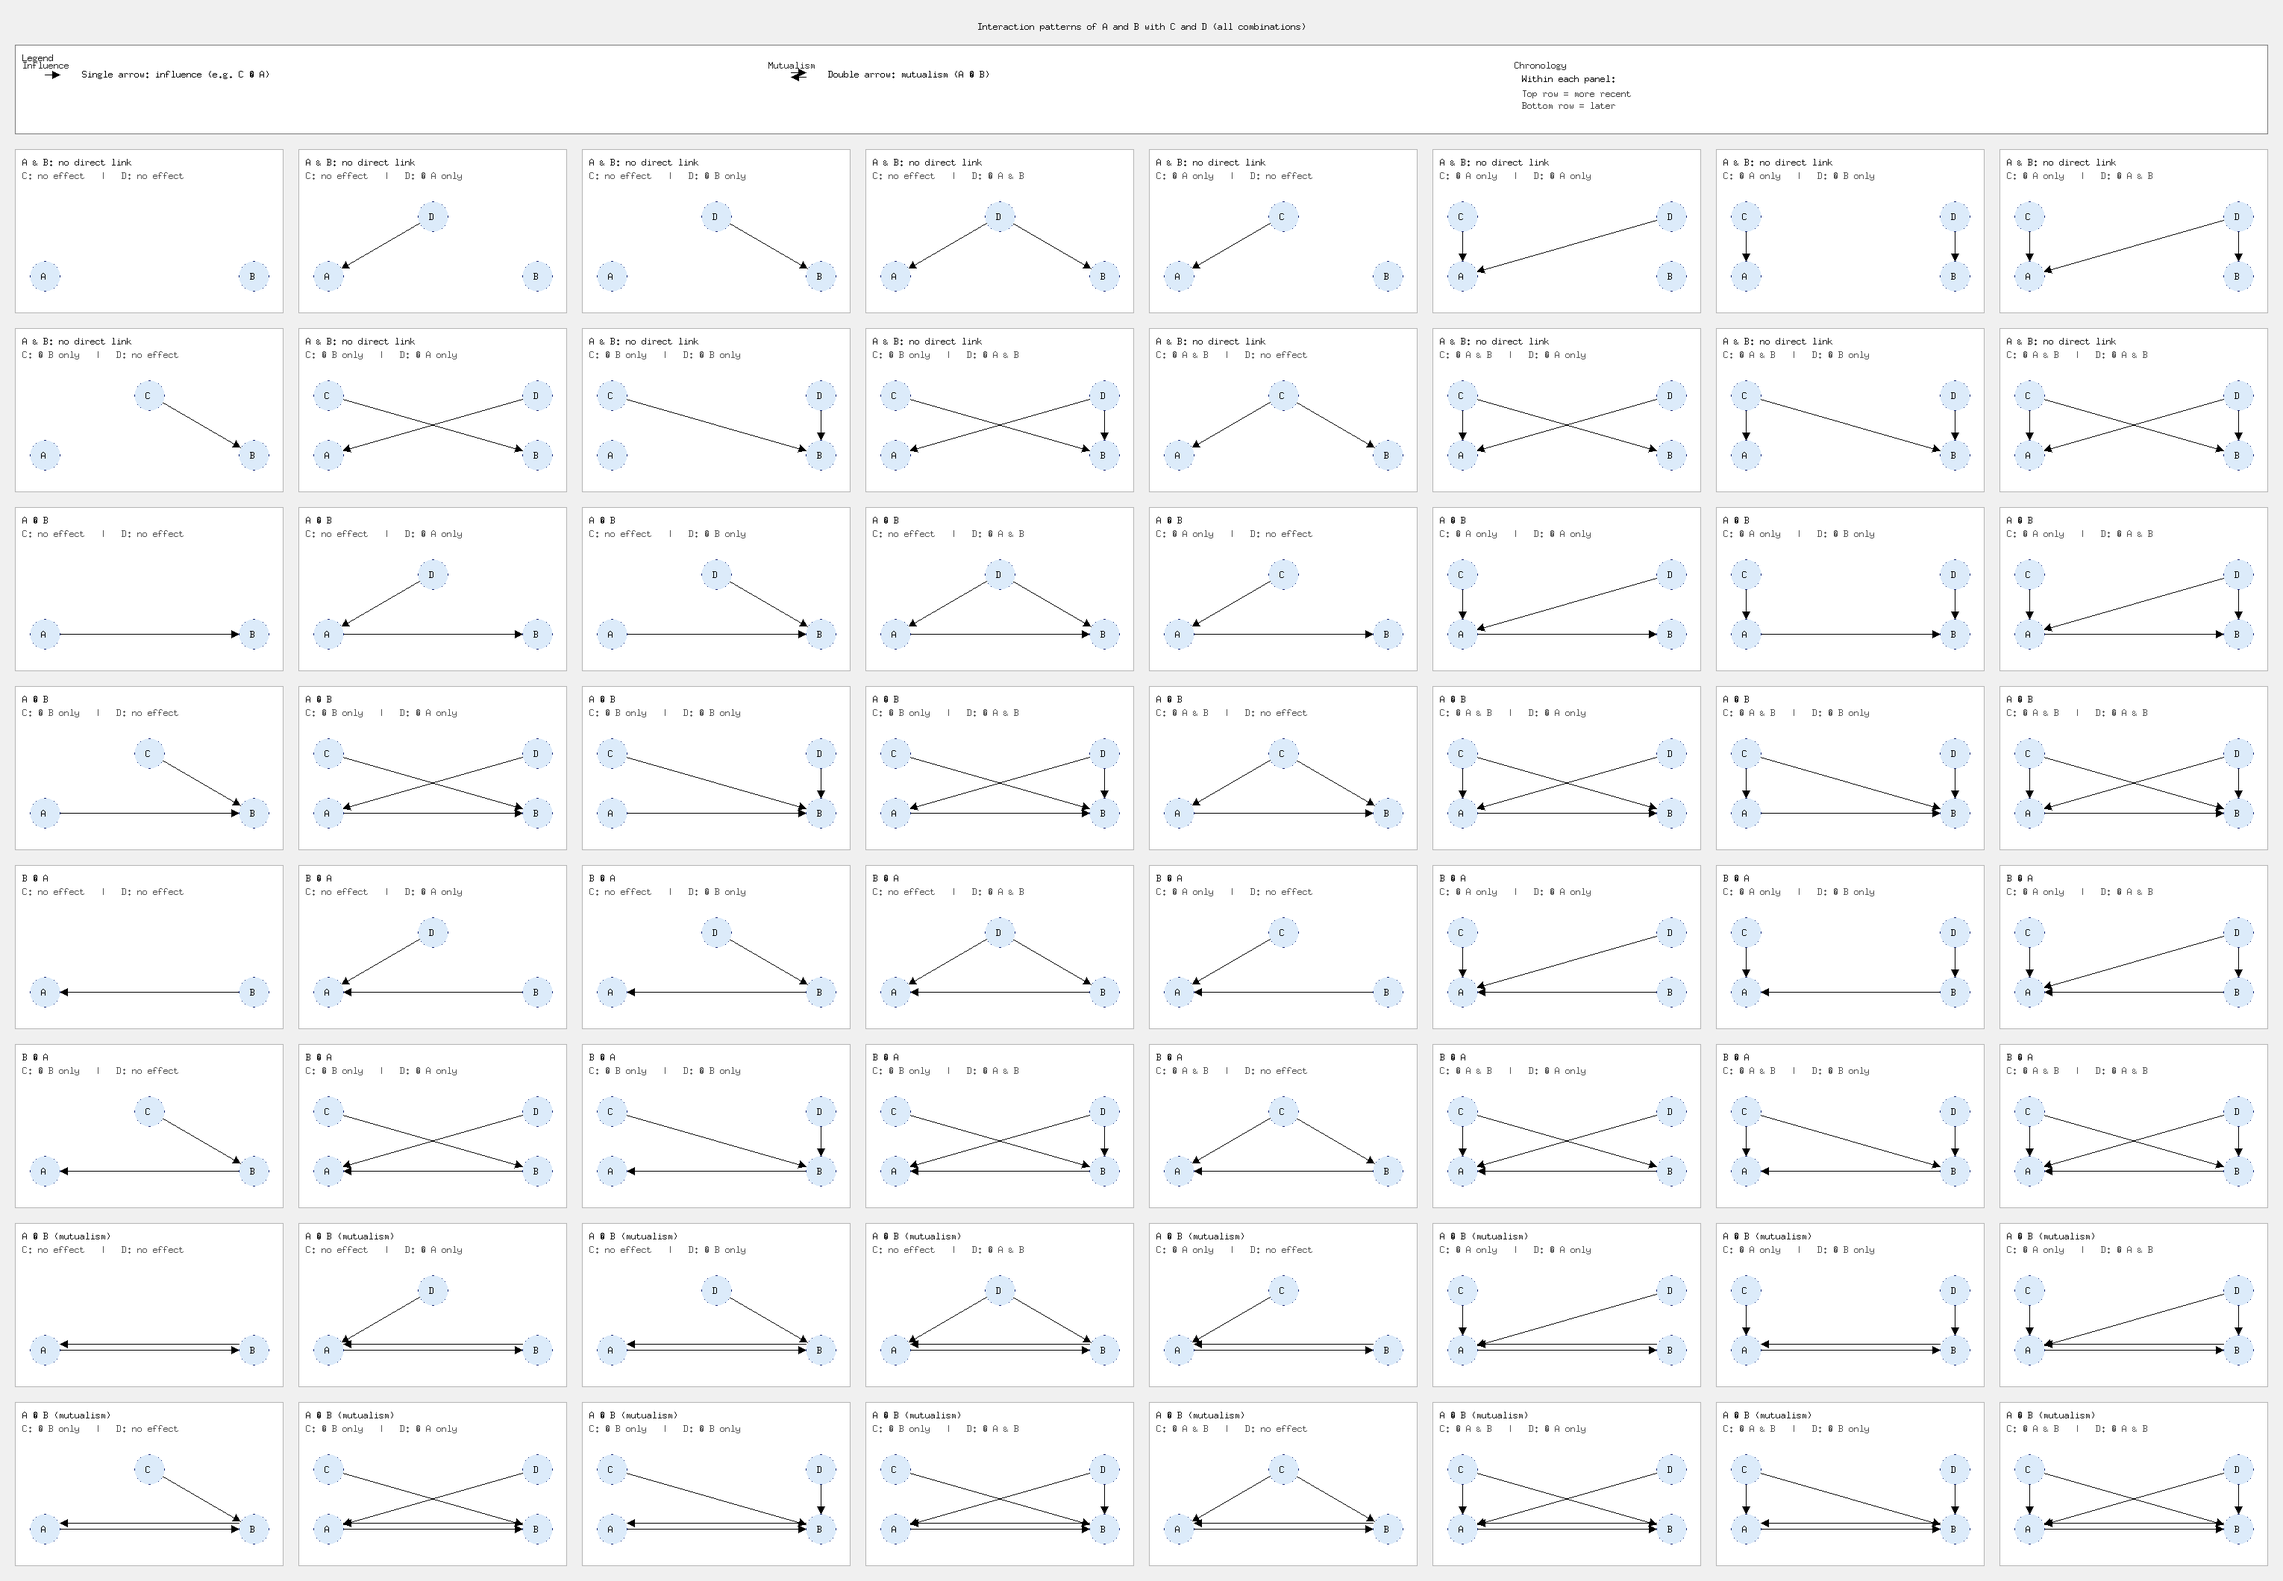
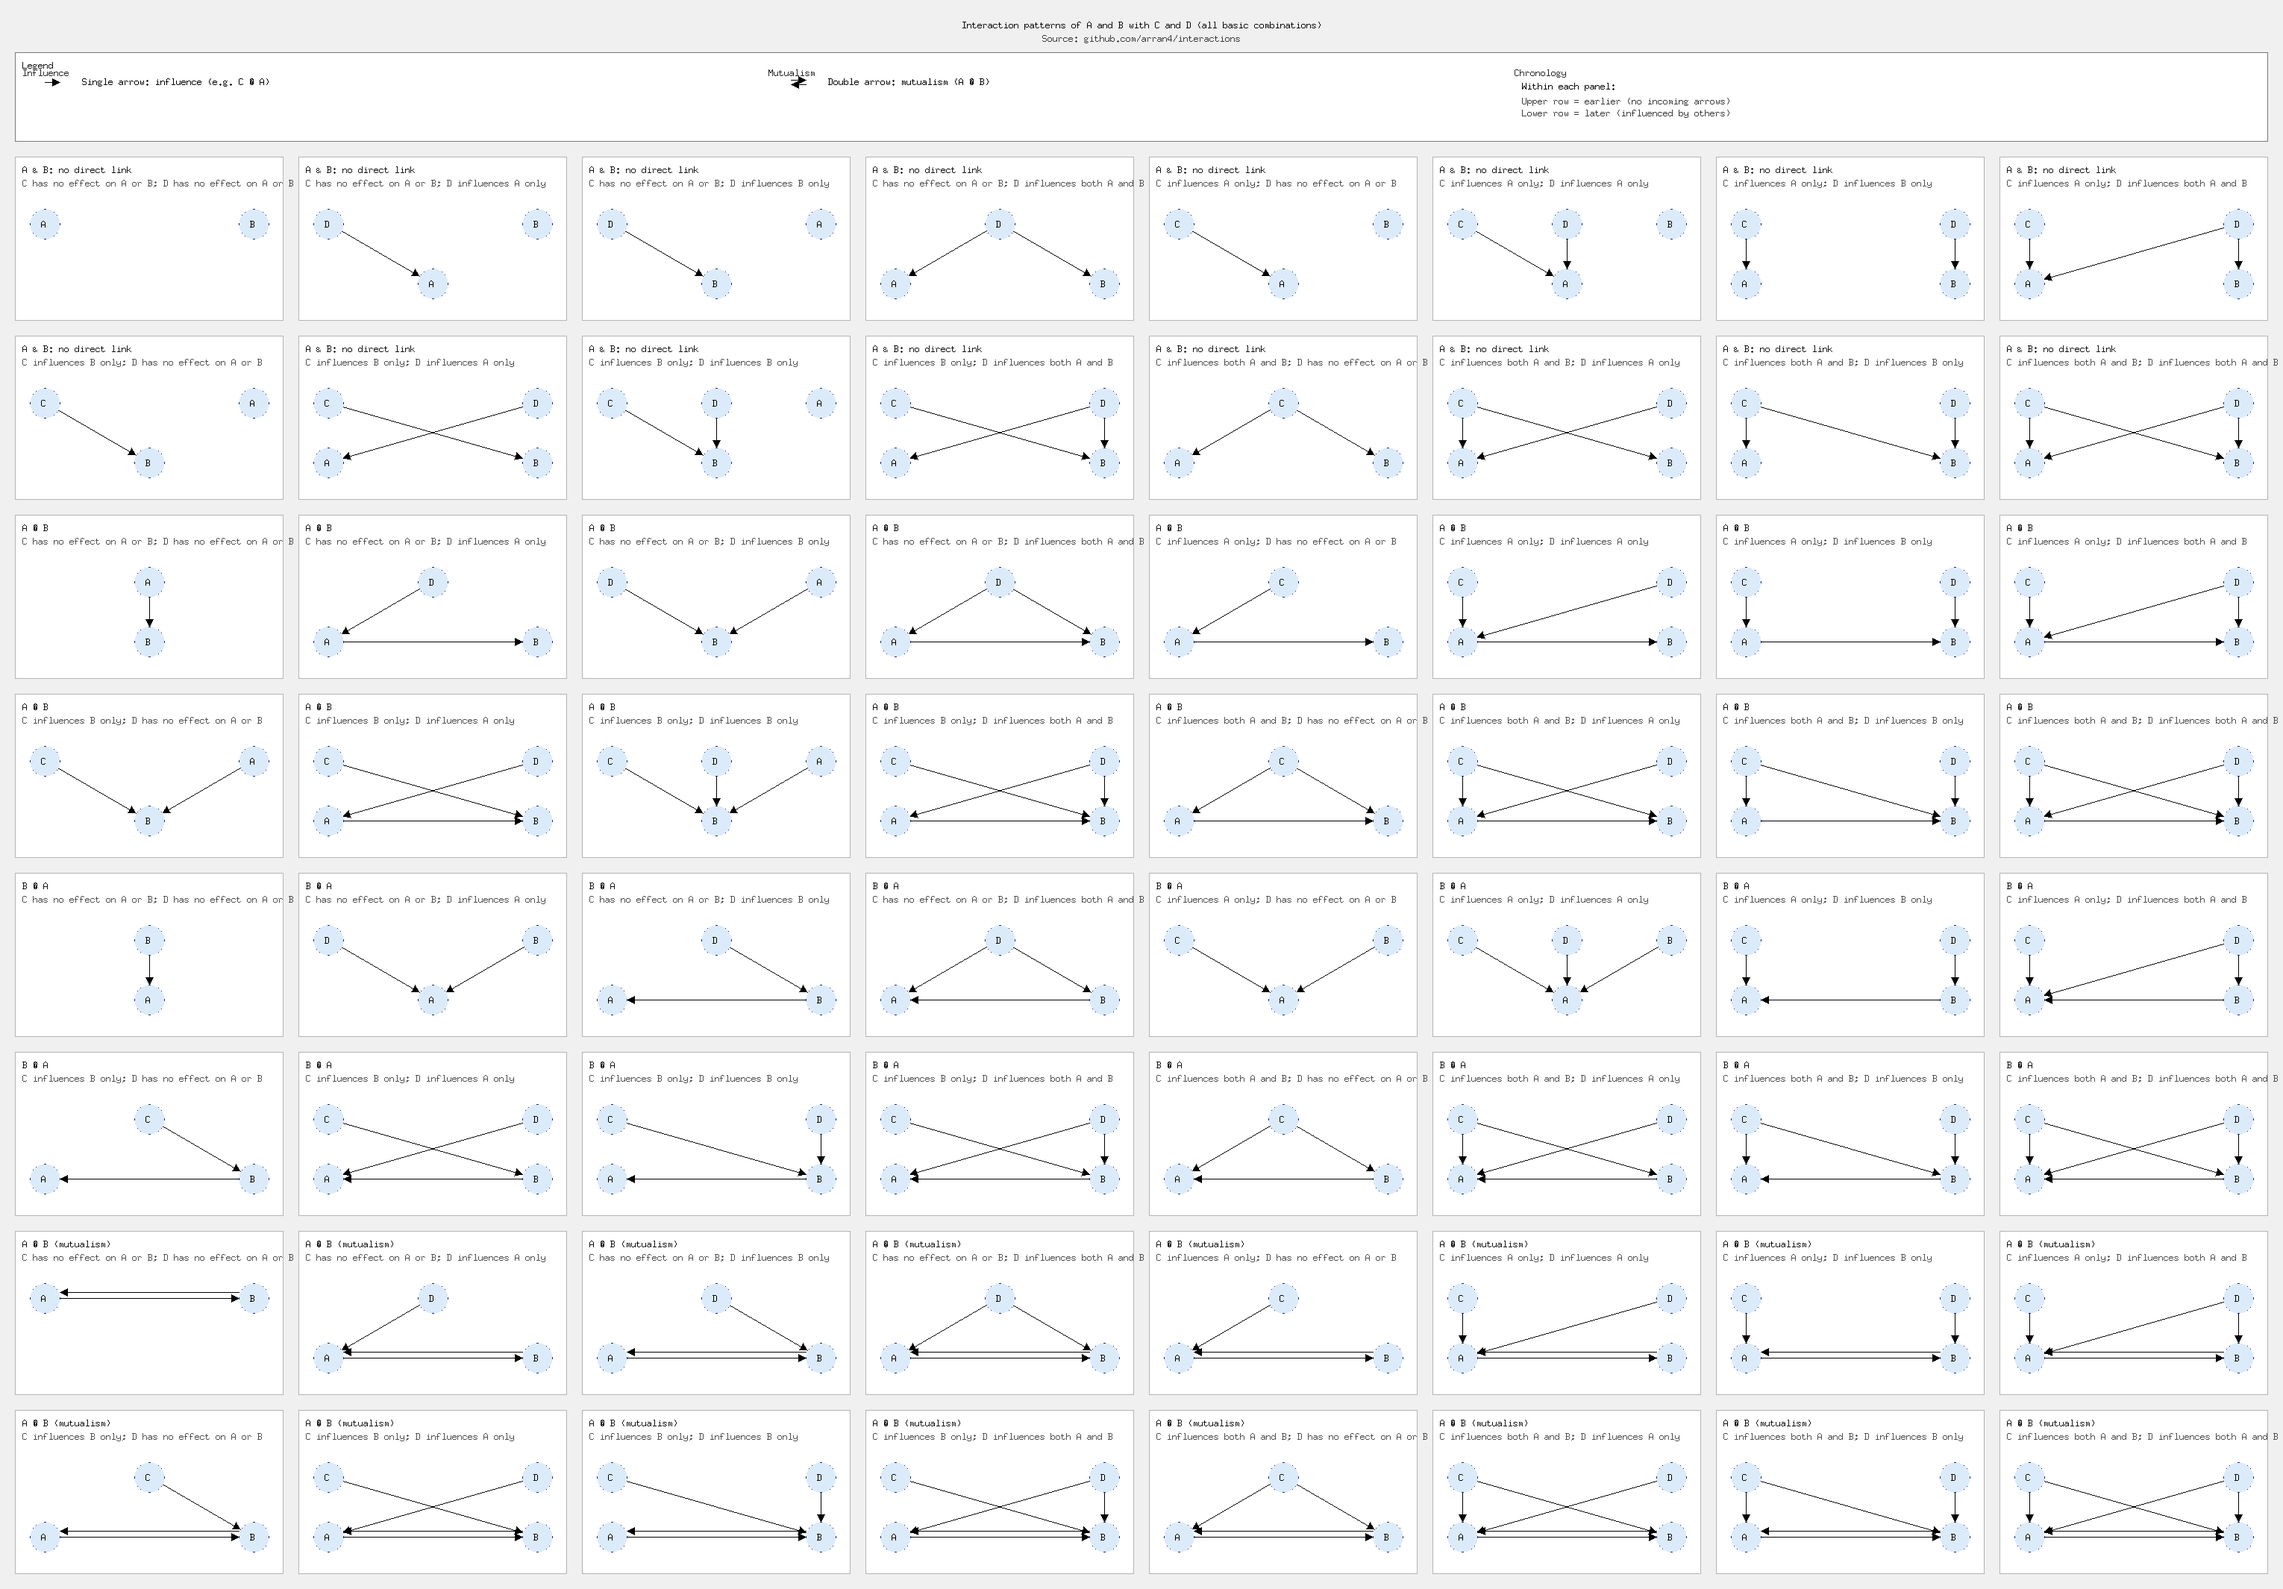
update

diff --git a/main.go b/main.go
@@ -1,3 +1,6 @@
+// interactions: generate a grid of all basic interaction patterns
+// between A and B, with external influences from C and D.
+// Project home: https://github.com/arran4/interactions
 package main
 
 import (
@@ -54,10 +57,7 @@ func generateScenarios() []Scenario {
 		for cPat := 0; cPat < 4; cPat++ {
 			for dPat := 0; dPat < 4; dPat++ {
 				title := abTitle(ab)
-				subtitle := fmt.Sprintf("C: %s   |   D: %s",
-					externalRoleLabel(cPat),
-					externalRoleLabel(dPat),
-				)
+				subtitle := externalSubtitle(cPat, dPat)
 
 				nodesSet := map[string]bool{
 					"A": true,
@@ -99,7 +99,7 @@ func generateScenarios() []Scenario {
 					}
 				}
 
-				// Stable node ordering for nicer layouts
+				// Stable ordering for nicer layouts
 				order := []string{"C", "D", "A", "B"}
 				var nodes []string
 				for _, name := range order {
@@ -135,16 +135,23 @@ func abTitle(ab int) string {
 	}
 }
 
-func externalRoleLabel(p int) string {
+func externalSubtitle(cPat, dPat int) string {
+	return fmt.Sprintf("C %s; D %s",
+		externalSentenceFragment("C", cPat),
+		externalSentenceFragment("D", dPat),
+	)
+}
+
+func externalSentenceFragment(role string, p int) string {
 	switch p {
 	case 0:
-		return "no effect"
+		return "has no effect on A or B"
 	case 1:
-		return "→ A only"
+		return "influences A only"
 	case 2:
-		return "→ B only"
+		return "influences B only"
 	case 3:
-		return "→ A & B"
+		return "influences both A and B"
 	default:
 		return "?"
 	}
@@ -160,7 +167,7 @@ func renderAllScenarios(filename string, scenarios []Scenario) {
 		panelH       = 220
 		cols         = 8 // 8 x 8 grid for 64 scenarios
 		margin       = 20
-		titleHeight  = 40
+		titleHeight  = 50
 		legendHeight = 120
 	)
 
@@ -172,9 +179,10 @@ func renderAllScenarios(filename string, scenarios []Scenario) {
 	canvas := image.NewRGBA(image.Rect(0, 0, imgW, imgH))
 	fillRect(canvas, canvas.Bounds(), color.RGBA{240, 240, 240, 255})
 
-	// Global title at top centre
-	title := "Interaction patterns of A and B with C and D (all combinations)"
-	drawCenteredLabel(canvas, title, imgW/2, margin+20, color.RGBA{10, 10, 10, 255})
+	// Global title and repo URL
+	mainTitle := "Interaction patterns of A and B with C and D (all basic combinations)"
+	drawCenteredLabel(canvas, mainTitle, imgW/2, margin+18, color.RGBA{10, 10, 10, 255})
+	drawCenteredLabel(canvas, "Source: github.com/arran4/interactions", imgW/2, margin+36, color.RGBA{60, 60, 60, 255})
 
 	// Legend area under the title
 	legendTop := margin + titleHeight
@@ -220,7 +228,6 @@ func drawLegend(img *image.RGBA, rect image.Rectangle) {
 	w := rect.Dx() - 2*padding
 	sectionW := w / 3
 
-	// Section titles
 	drawLabel(img, "Legend", x0, y0+12, color.RGBA{20, 20, 20, 255})
 
 	// --- Section 1: single arrow ---
@@ -249,12 +256,15 @@ func drawLegend(img *image.RGBA, rect image.Rectangle) {
 	s3y := s1y
 	drawLabel(img, "Chronology", s3x, s3y-8, color.RGBA{40, 40, 40, 255})
 	drawLabel(img, "Within each panel:", s3x+10, s3y+10, color.Black)
-	drawLabel(img, "Top row = more recent", s3x+10, s3y+30, color.RGBA{60, 60, 60, 255})
-	drawLabel(img, "Bottom row = later", s3x+10, s3y+46, color.RGBA{60, 60, 60, 255})
+	drawLabel(img, "Upper row = earlier (no incoming arrows)", s3x+10, s3y+30, color.RGBA{60, 60, 60, 255})
+	drawLabel(img, "Lower row = later (influenced by others)", s3x+10, s3y+46, color.RGBA{60, 60, 60, 255})
 }
 
-// Within a panel, external nodes (C, D, etc.) are top row (more recent),
-// A and B are bottom row (later).
+// Within a panel, we infer simple chronology from the graph:
+// - nodes with no incoming arrows are "earlier" (upper row)
+// - nodes with at least one incoming arrow are "later" (lower row)
+// This means A and B don't have to be simultaneous or last, and in
+// mutualism-only cases (A ↔ B) they appear on the same row.
 func drawScenario(img *image.RGBA, rect image.Rectangle, s Scenario) {
 	bg := color.RGBA{255, 255, 255, 255}
 	border := color.RGBA{180, 180, 180, 255}
@@ -265,44 +275,64 @@ func drawScenario(img *image.RGBA, rect image.Rectangle, s Scenario) {
 	drawLabel(img, s.Title, rect.Min.X+10, rect.Min.Y+22, color.RGBA{20, 20, 20, 255})
 	drawLabel(img, s.Subtitle, rect.Min.X+10, rect.Min.Y+40, color.RGBA{80, 80, 80, 255})
 
-	// Chronological layout
+	// Layout rows
 	left := rect.Min.X + 40
 	right := rect.Max.X - 40
-	topY := rect.Min.Y + 90  // more recent
+	topY := rect.Min.Y + 90  // earlier
 	botY := rect.Min.Y + 170 // later
 
-	var topNodes, bottomNodes []string
-	for _, name := range s.Nodes {
-		if name == "A" || name == "B" {
-			bottomNodes = append(bottomNodes, name)
-		} else {
-			topNodes = append(topNodes, name)
+	// Compute incoming edge counts
+	incoming := map[string]int{}
+	for _, n := range s.Nodes {
+		incoming[n] = 0
+	}
+	for _, e := range s.Edges {
+		incoming[e.To]++
+		if e.Bidirectional {
+			// mutualism: treat as two directed edges for layering
+			incoming[e.From]++
 		}
+	}
+
+	var early, late []string
+	for _, n := range s.Nodes {
+		if incoming[n] == 0 {
+			early = append(early, n)
+		} else {
+			late = append(late, n)
+		}
+	}
+
+	// Fallbacks: if graph is fully cyclic or fully independent,
+	// put everything in the upper row.
+	if len(early) == 0 {
+		early = s.Nodes
+		late = nil
 	}
 
 	positions := map[string]image.Point{}
 
-	// Position top (external) nodes
-	if len(topNodes) == 1 {
-		positions[topNodes[0]] = image.Point{(left + right) / 2, topY}
-	} else if len(topNodes) > 1 {
-		for i, name := range topNodes {
-			x := left + (right-left)*i/(len(topNodes)-1)
+	// Position early nodes
+	if len(early) == 1 {
+		positions[early[0]] = image.Point{(left + right) / 2, topY}
+	} else if len(early) > 1 {
+		for i, name := range early {
+			x := left + (right-left)*i/(len(early)-1)
 			positions[name] = image.Point{x, topY}
 		}
 	}
 
-	// Position bottom (A, B) nodes
-	if len(bottomNodes) == 1 {
-		positions[bottomNodes[0]] = image.Point{(left + right) / 2, botY}
-	} else if len(bottomNodes) > 1 {
-		for i, name := range bottomNodes {
-			x := left + (right-left)*i/(len(bottomNodes)-1)
+	// Position late nodes
+	if len(late) == 1 {
+		positions[late[0]] = image.Point{(left + right) / 2, botY}
+	} else if len(late) > 1 {
+		for i, name := range late {
+			x := left + (right-left)*i/(len(late)-1)
 			positions[name] = image.Point{x, botY}
 		}
 	}
 
-	// Fallback
+	// Fallback for any missing position
 	for _, name := range s.Nodes {
 		if _, ok := positions[name]; !ok {
 			positions[name] = image.Point{(left + right) / 2, (topY + botY) / 2}
@@ -315,7 +345,7 @@ func drawScenario(img *image.RGBA, rect image.Rectangle, s Scenario) {
 		to := positions[e.To]
 		drawArrow(img, from.X, from.Y, to.X, to.Y, color.RGBA{0, 0, 0, 255})
 		if e.Bidirectional {
-			// mutualism: second arrow with slight offset
+			// mutualism: second arrow with slight vertical offset
 			drawArrow(img, to.X, to.Y-8, from.X, from.Y-8, color.RGBA{0, 0, 0, 255})
 		}
 	}
@@ -360,7 +390,7 @@ func drawLabel(img *image.RGBA, text string, x, y int, col color.Color) {
 }
 
 func drawCenteredLabel(img *image.RGBA, text string, centerX, y int, col color.Color) {
-	// Approximate text width: 7px per char for Face7x13
+	// Approximate text width: ~7px per char for Face7x13
 	width := len(text) * 7
 	x := centerX - width/2
 	drawLabel(img, text, x, y, col)
